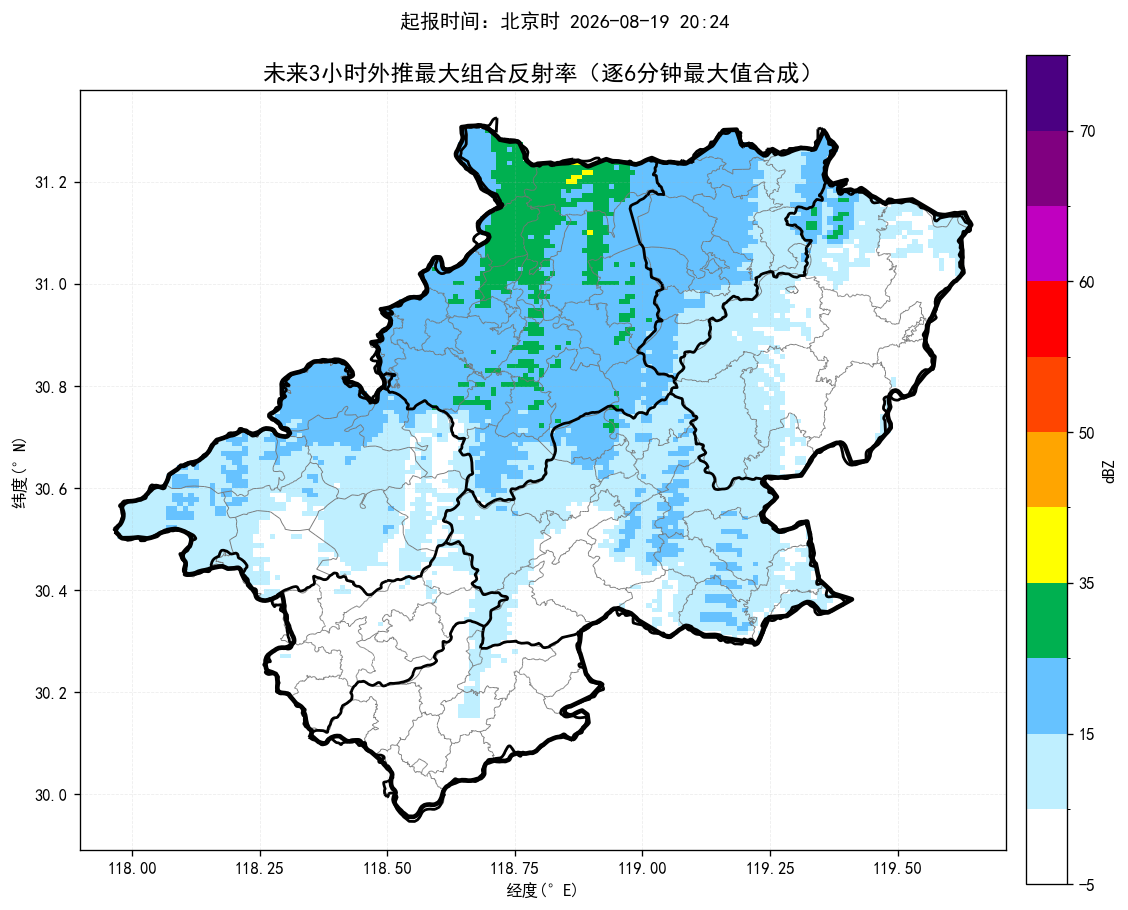
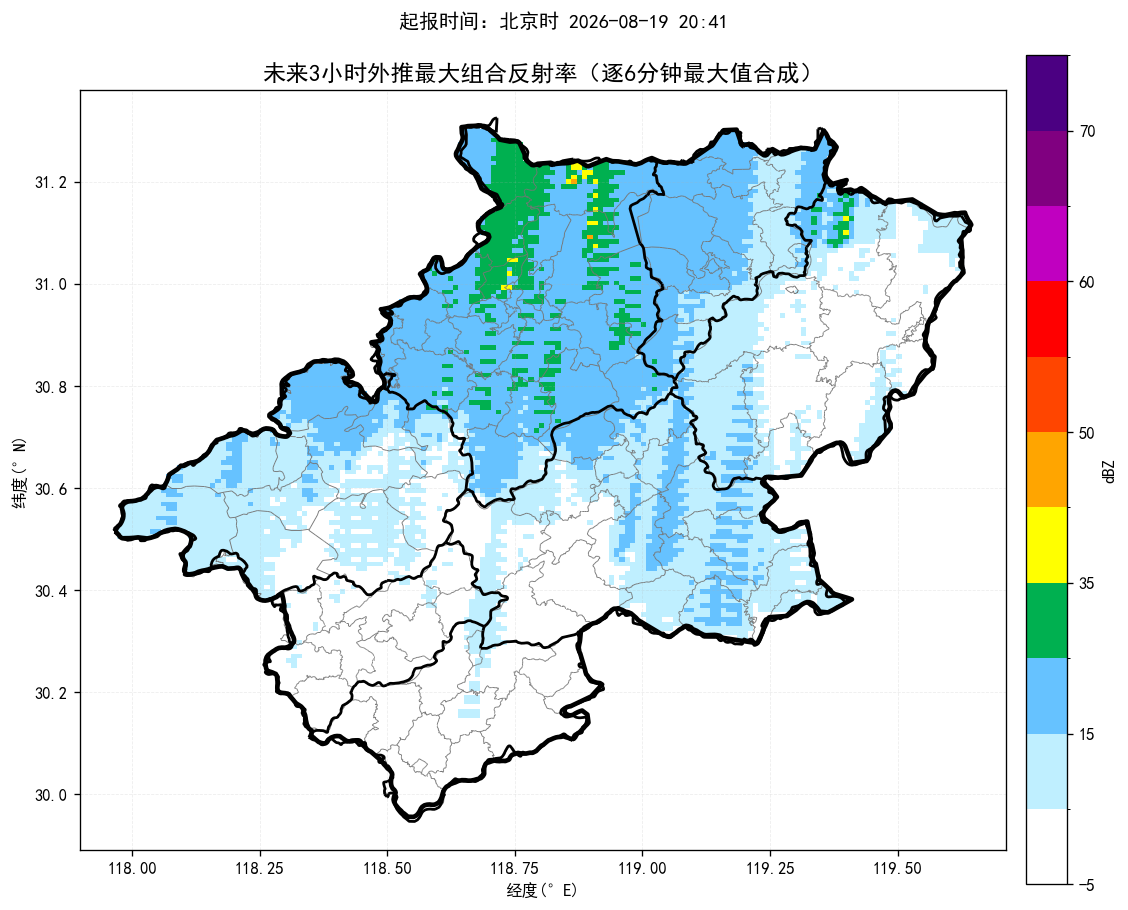
update nowcast products

diff --git a/index.html b/index.html
@@ -14,14 +14,14 @@ img.product{display:block;width:100%;height:auto;margin:10px auto 26px;border:1p
 .footer{font-size:13px;color:#777;text-align:center;margin-top:30px}
 @media(max-width:700px){.sheet{margin:0;padding:18px 15px}.alert-title{font-size:22px}.county-line{font-size:17px}.prob{font-size:18px}}
 </style></head><body><main class="sheet">
-<div class="time">起报时间：北京时 2026-08-19 20:24</div>
+<div class="time">起报时间：北京时 2026-08-19 20:41</div>
 <div class="alert-title">未来一小时降水量超过 20 毫米的乡镇：</div><div class="county-line">无</div>
 <div class="alert-title">未来三小时降水量超过 50 毫米的乡镇：</div><div class="county-line">无</div>
 <div class="alert-title">未来三小时雷暴大风（组合反射率 > 55 dBZ）的乡镇：</div><div class="county-line">无</div>
-<div class="prob">最大降水量概率预估：宣城市范围内未来三小时降水偏小，最大预报约3.4毫米，暂不进行50/80/100毫米概率预估。</div>
-<div class="section-title">未来降水预报图：</div><img class="product auto-refresh-product" data-src="短临降水预报.png" src="短临降水预报.png?v=20260819203008" alt="未来降水预报图">
-<div class="section-title">未来三小时组合反射率图：</div><img class="product auto-refresh-product" data-src="未来3小时组合反射率.png" src="未来3小时组合反射率.png?v=20260819203008" alt="未来三小时组合反射率图">
-<div class="section-title">未来三小时雷暴大风图：</div><img class="product auto-refresh-product" data-src="未来3小时雷暴大风.png" src="未来3小时雷暴大风.png?v=20260819203008" alt="未来三小时雷暴大风图">
+<div class="prob">最大降水量概率预估：宣城市范围内未来三小时降水偏小，最大预报约5.0毫米，暂不进行50/80/100毫米概率预估。</div>
+<div class="section-title">未来降水预报图：</div><img class="product auto-refresh-product" data-src="短临降水预报.png" src="短临降水预报.png?v=20260819204800" alt="未来降水预报图">
+<div class="section-title">未来三小时组合反射率图：</div><img class="product auto-refresh-product" data-src="未来3小时组合反射率.png" src="未来3小时组合反射率.png?v=20260819204800" alt="未来三小时组合反射率图">
+<div class="section-title">未来三小时雷暴大风图：</div><img class="product auto-refresh-product" data-src="未来3小时雷暴大风.png" src="未来3小时雷暴大风.png?v=20260819204800" alt="未来三小时雷暴大风图">
 <div class="footer">三张产品图每 60 秒自动刷新一次；每次请求自动附加新的URL参数以绕过缓存。</div>
 <script>
 (function() {
